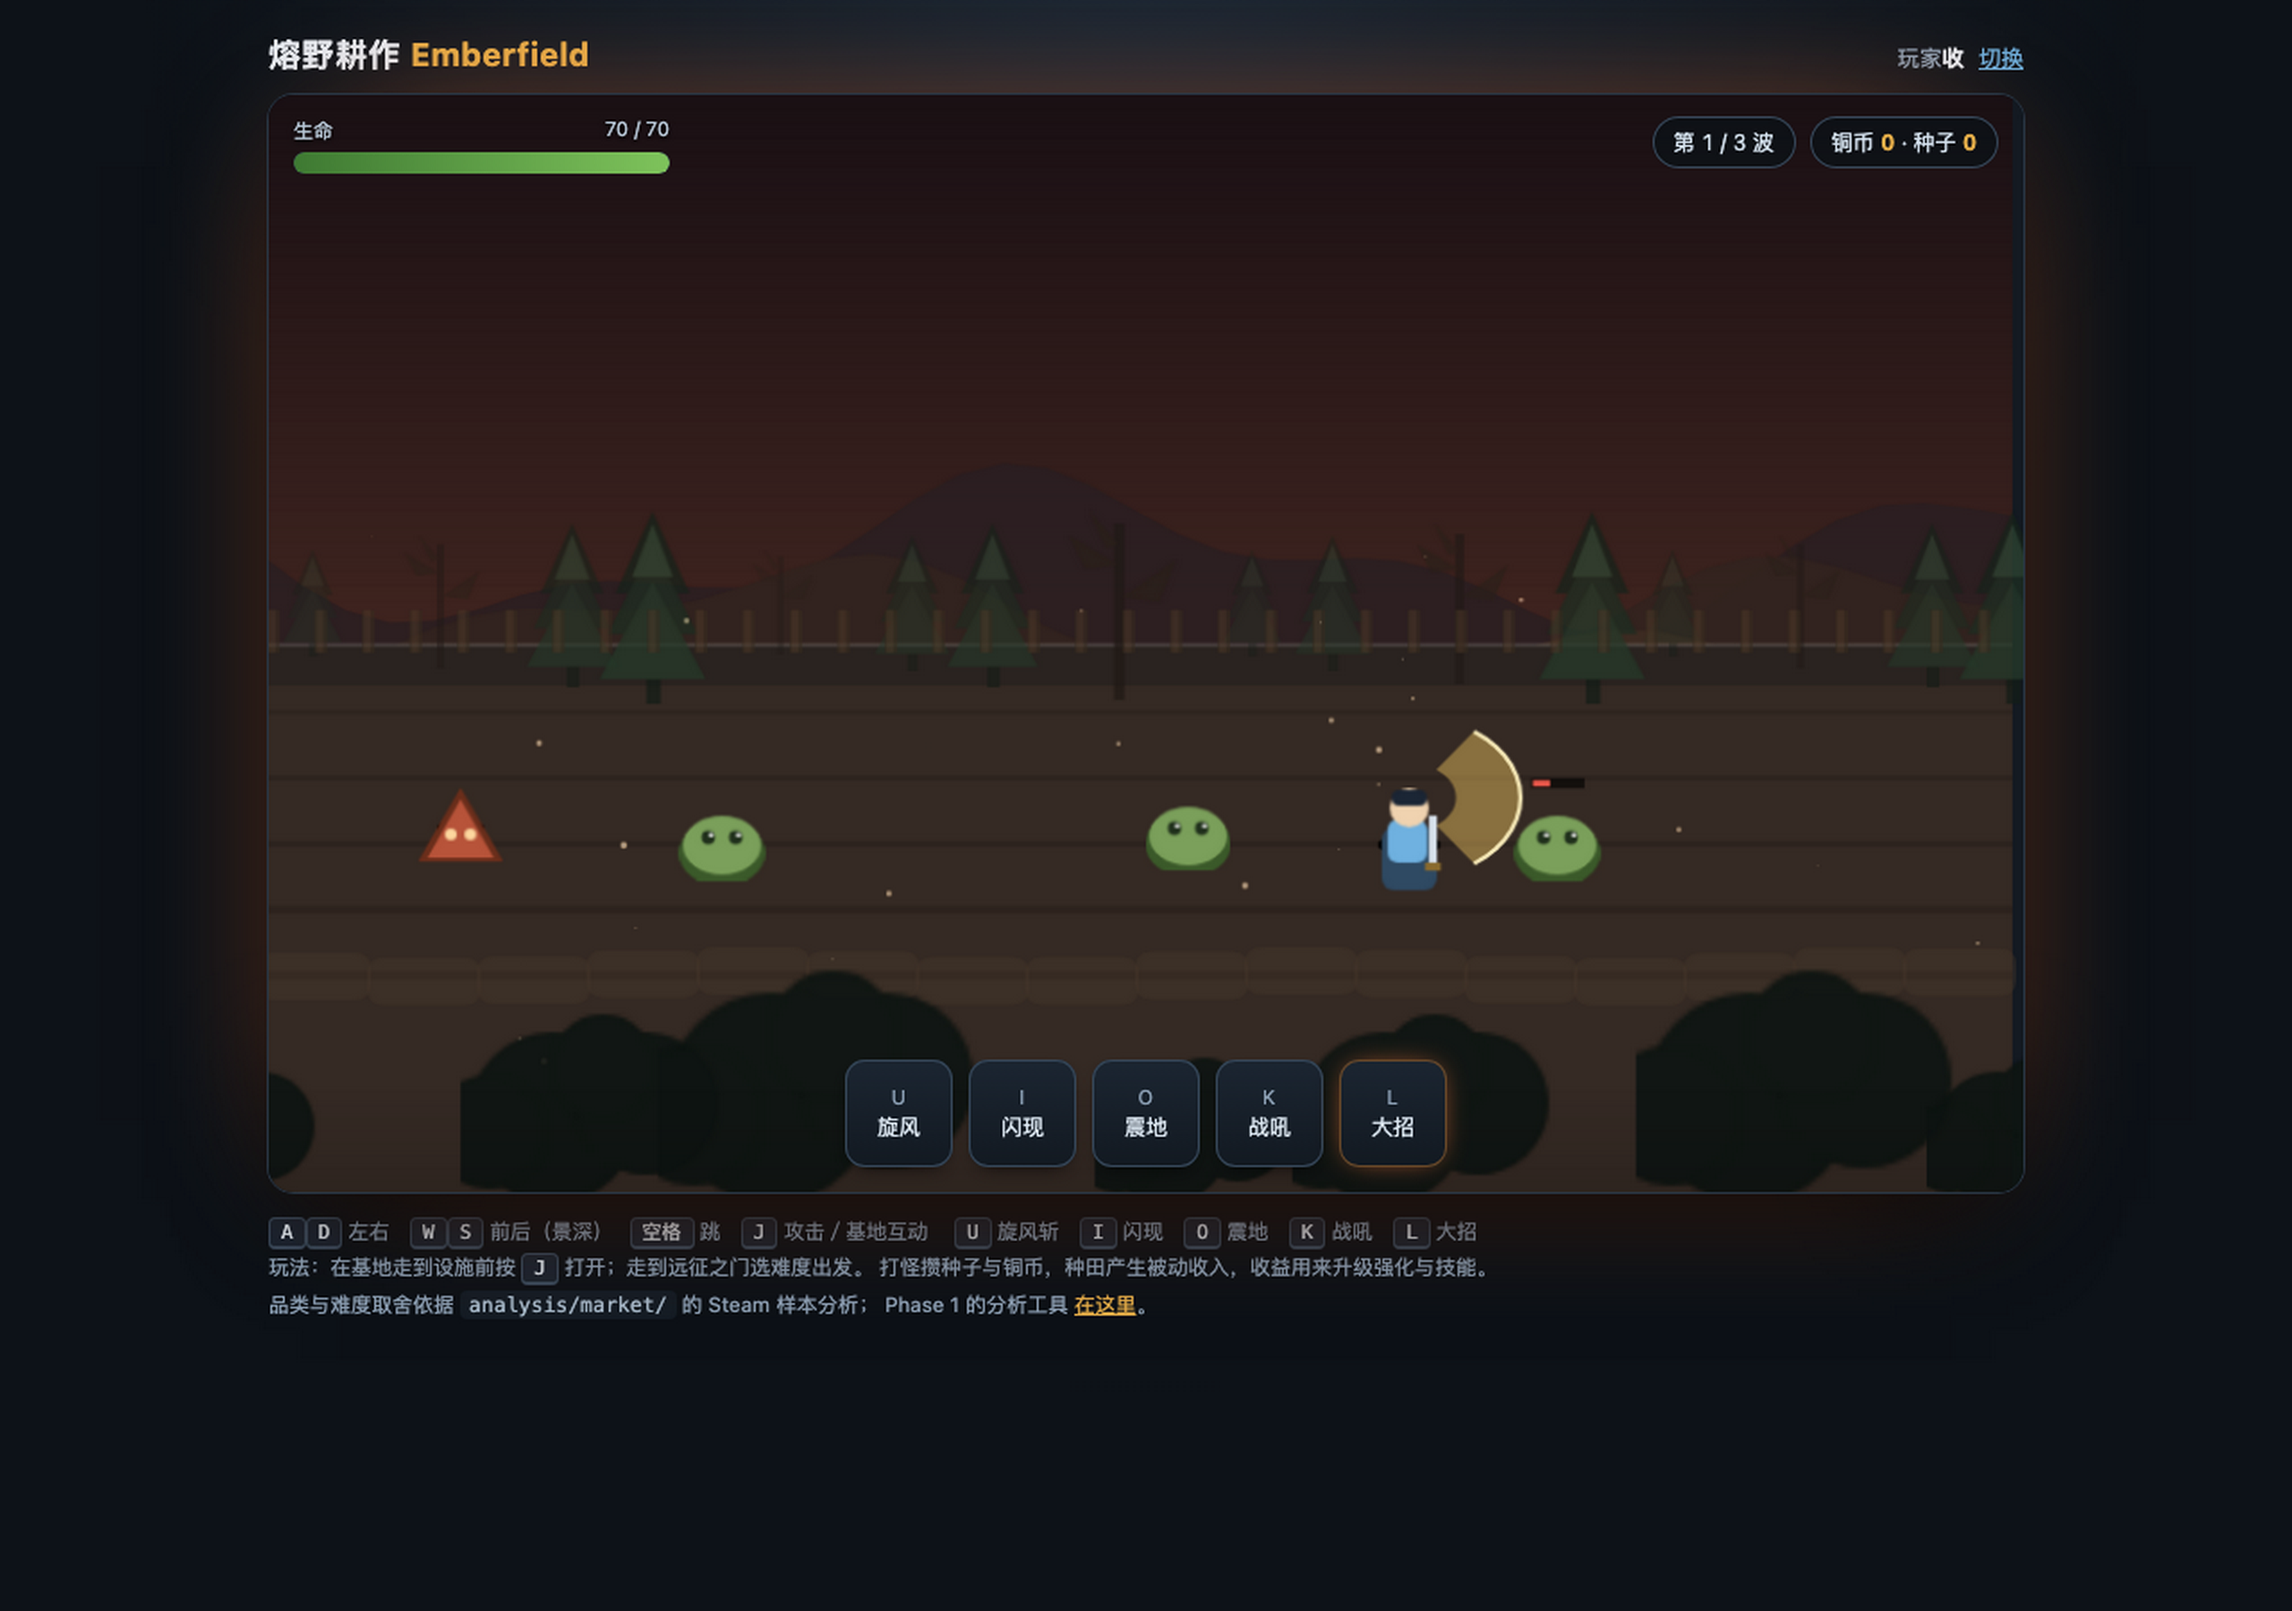
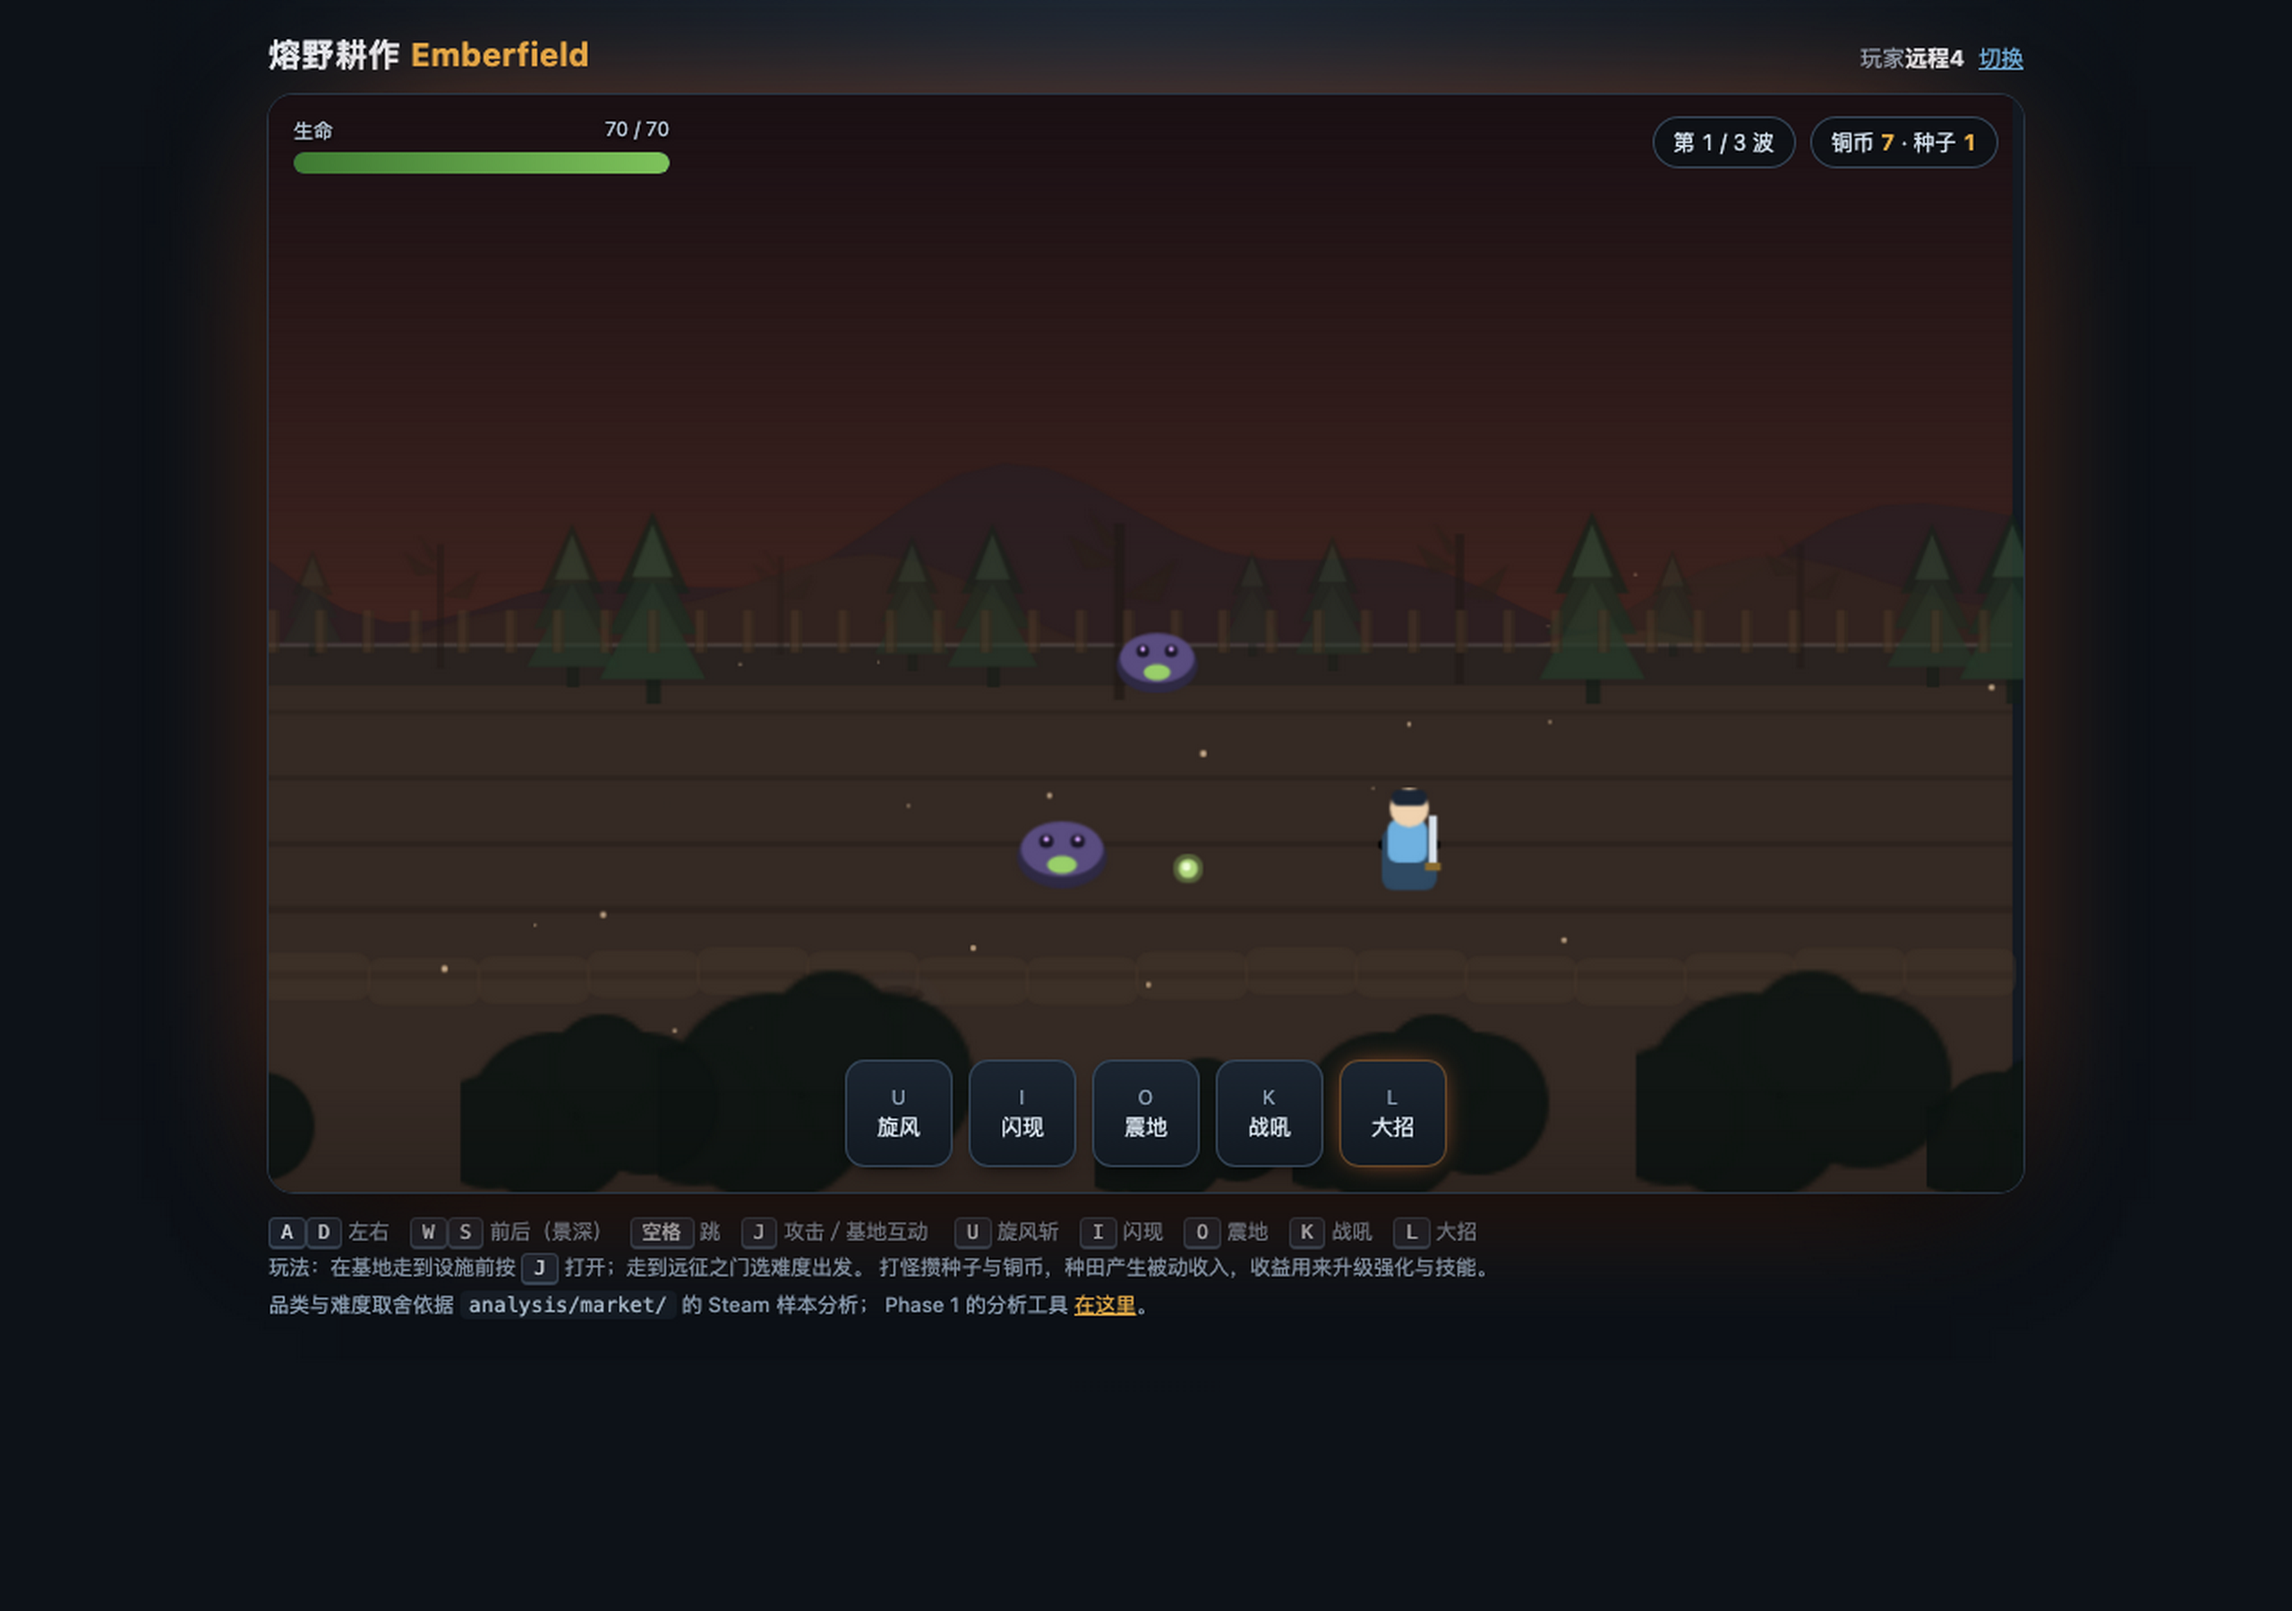
game: a ranged enemy that makes the depth axis a dodge, plus hit feedback
Combat had one solution: walk backwards. Every enemy had to touch you, so kiting beat
everything. The spitter fixes that without adding a fourth melee variant.

Ranged enemy. It holds about 250px, telegraphs, then spits a projectile that travels a
straight line in both axes. Hit resolution requires x overlap AND |z difference| under 26,
so stepping in depth dodges it. That is the depth axis earning its place: it was previously
movement decoration. Waves gain spitters from wave 2, up to a third of the wave by wave 4.

Verified by test rather than assumed: same-depth shots hit, a 62px depth offset misses,
projectiles expire, the spitter fires within six seconds, its shot leads toward the player,
and it backs off when crowded.

Balance re-measured with a bot that now dodges: zero upgrades gives 100/95/40/5 percent,
full upgrades 100/100/100/85. Every tier got harder and all remain completable.

Hit feedback: floating damage numbers derived by diffing enemy HP each frame (no change
needed in the rules layer), screen shake scaled per skill, and a fade on death.

Two rendering faults found only by looking at captures:
  - Enemy sprites are pooled by index and the texture was fixed at creation, so a slot that
    held a crawler and then received a spitter kept drawing a crawler. Now the texture is
    updated when the kind at that index changes.
  - The slash still read beige. It is now a near-white core with a gold leading edge, which
[…]

diff --git a/game/app.js b/game/app.js
@@ -72,6 +72,22 @@
     g.fillStyle(0xffd9a0, 1); g.fillCircle(17, 26, 3); g.fillCircle(27, 26, 3);
     g.generateTexture('runner', 44, 42);
 
+    // 吐酸虫：矮胖，带一张吐酸的嘴
+    g.clear();
+    g.fillStyle(0x2f2a44, 1); g.fillEllipse(24, 32, 46, 32);
+    g.fillStyle(0x5a4d80, 1); g.fillEllipse(24, 28, 42, 28);
+    g.fillStyle(0x9ad06a, 1); g.fillEllipse(24, 36, 15, 9);      // 酸囊
+    g.fillStyle(0x1a1626, 1); g.fillCircle(16, 24, 3.6); g.fillCircle(32, 24, 3.6);
+    g.fillStyle(0xd6a6ff, 1); g.fillCircle(16, 23, 1.4); g.fillCircle(32, 23, 1.4);
+    g.generateTexture('spitter', 48, 48);
+
+    // 酸弹
+    g.clear();
+    g.fillStyle(0x9ad06a, 0.35); g.fillCircle(9, 9, 9);
+    g.fillStyle(0xbfe88a, 0.9); g.fillCircle(9, 9, 5.5);
+    g.fillStyle(0xf0ffd8, 1); g.fillCircle(8, 8, 2.4);
+    g.generateTexture('acid', 18, 18);
+
     // 影子
     g.clear();
     g.fillStyle(0x000000, 1); g.fillEllipse(24, 8, 48, 16);
@@ -491,6 +507,11 @@
       this.hero = this.add.image(0, 0, 'hero').setDepth(100);
       this.heroSwing = this.add.graphics().setDepth(101);
 
+      this.projPool = [];
+      this.dmgPool = [];
+      this.lastEnemyHp = {};
+      this.lastShake = 0;
+
       this.events.on('wake', () => { this.state = CURRENT_STATE; });
       global.EmberfieldUI.showHud(true, this.state);
       global.EmberfieldApp.__scene = this;
@@ -501,9 +522,16 @@
       if (!this.enemyPool[i]) {
         const sh = this.add.image(0, 0, 'shadow').setScale(0.62);
         const img = this.add.image(0, 0, kind);
-        this.enemyPool[i] = { img: img, shadow: sh };
+        this.enemyPool[i] = { img: img, shadow: sh, kind: kind };
       }
-      return this.enemyPool[i];
+      const sp = this.enemyPool[i];
+      // 池是按索引复用的。如果这个槽位上一帧是爬虫、这一帧是吐酸虫，
+      // 纹理不会自动换 —— 结果吐酸虫会画成爬虫的样子（实际踩到过）。
+      if (sp.kind !== kind) {
+        sp.img.setTexture(kind);
+        sp.kind = kind;
+      }
+      return sp;
     }
 
     update(time, delta) {
@@ -558,7 +586,7 @@
         const poly = outer.concat(inner);
 
         // 主体：淡金色半透明
-        this.heroSwing.fillStyle(0xffd166, 0.42 * (1 - t * 0.5));
+        this.heroSwing.fillStyle(0xfffdf2, 0.30 * (1 - t * 0.5));
         this.heroSwing.beginPath();
         this.heroSwing.moveTo(poly[0][0], poly[0][1]);
         for (let i = 1; i < poly.length; i++) this.heroSwing.lineTo(poly[i][0], poly[i][1]);
@@ -566,7 +594,7 @@
         this.heroSwing.fillPath();
 
         // 外缘亮线：让刀光有"边"，不是一团糊
-        this.heroSwing.lineStyle(2.5 * ps.sc, 0xfff2c0, 0.95 * (1 - t * 0.55));
+        this.heroSwing.lineStyle(2.5 * ps.sc, 0xffe9a8, 0.95 * (1 - t * 0.55));
         this.heroSwing.beginPath();
         this.heroSwing.moveTo(outer[0][0], outer[0][1]);
         for (let i = 1; i < outer.length; i++) this.heroSwing.lineTo(outer[i][0], outer[i][1]);
@@ -600,6 +628,16 @@
         this.enemyPool[i].img.setVisible(false);
         this.enemyPool[i].shadow.setVisible(false);
       }
+      // 死亡的敌人短暂保留：淡出并缩小，比"瞬间消失"有交代
+      run.enemies.forEach((e) => {
+        if (e.state !== 'dead') return;
+        const idx = run.enemies.indexOf(e);
+        const sp = this.enemyPool[idx];
+        if (!sp) return;
+        sp.img.setAlpha(Math.min(1, e.hitFlash / 0.12));
+        sp.img.setScale(sp.img.scaleX * 0.985);
+        sp.shadow.setAlpha(0.18);
+      });
 
       // 技能特效
       run.effects.forEach((ef) => {
@@ -613,6 +651,57 @@
           this.effectGfx.fillRect(0, 0, W, GROUND_Y);
         }
       });
+
+      // ---- 弹道 ----
+      run.projectiles.forEach((pr, i) => {
+        let sp = this.projPool[i];
+        if (!sp) { sp = this.add.image(0, 0, 'acid'); this.projPool[i] = sp; }
+        const pss = toScreen(pr.x, pr.z, pr.h);
+        sp.setVisible(true).setPosition(pss.sx, pss.sy)
+          .setScale(pss.sc * (0.9 + Math.sin(pr.spin) * 0.12))
+          .setDepth(1000 - pr.z + 5);
+      });
+      for (let i = run.projectiles.length; i < this.projPool.length; i++) {
+        this.projPool[i].setVisible(false);
+      }
+
+      // ---- 伤害数字：靠每帧比对血量差值得出，不需要逻辑层配合 ----
+      run.enemies.forEach((e) => {
+        const prev = this.lastEnemyHp[e.id];
+        if (prev !== undefined && e.hp < prev) {
+          const dmg = Math.round(prev - e.hp);
+          const es = toScreen(e.x, e.z, e.h);
+          let tb = this.dmgPool.pop();
+          if (!tb) tb = this.add.text(0, 0, '', {
+            fontSize: '15px', fontFamily: 'sans-serif', color: '#fff2c0',
+          }).setOrigin(0.5, 1).setDepth(3000);
+          tb.setText(String(dmg)).setVisible(true).setPosition(es.sx, es.sy - 30 * es.sc)
+            .setAlpha(1).setScale(1);
+          tb.setStroke('#3a1d10', 3);
+          this.tweens.add({
+            targets: tb, y: tb.y - 34, alpha: 0, scale: 1.25,
+            duration: 620, ease: 'Cubic.out',
+            onComplete: () => { tb.setVisible(false); this.dmgPool.push(tb); },
+          });
+        }
+        this.lastEnemyHp[e.id] = e.hp;
+      });
+      // 清理已消失敌人的记录，避免 Map 无限增长
+      const aliveIds = {};
+      run.enemies.forEach((e) => { aliveIds[e.id] = 1; });
+      Object.keys(this.lastEnemyHp).forEach((id) => {
+        if (!aliveIds[id]) delete this.lastEnemyHp[id];
+      });
+
+      // ---- 震屏：震地与大招各一次，强度不同 ----
+      const cast = p.casting;
+      if (cast && cast.key !== this.lastShake && cast.timer > 0) {
+        if (cast.key === 'slam') this.cameras.main.shake(160, 0.010);
+        if (cast.key === 'nova') this.cameras.main.shake(280, 0.016);
+        if (cast.key === 'whirl') this.cameras.main.shake(90, 0.004);
+        this.lastShake = cast.key;
+      }
+      if (!cast) this.lastShake = null;
 
       global.EmberfieldUI.updateHud(this.state);
 

diff --git a/game/logic.js b/game/logic.js
@@ -152,6 +152,7 @@
       enemies: [],
       loot: { coins: 0, seeds: 0 },
       effects: [],
+      projectiles: [],
       elapsed: 0,
       player: {
         x: C.FIELD_W / 2,
@@ -212,6 +213,7 @@
       radius: def.radius,
       state: 'chase',
       timer: 0,
+      fireCd: def.behavior === 'ranged' ? randRange(state, 0.9, 1.9) : 0,
       attackCd: 0,
       facing: fromLeft ? 1 : -1,
       hitFlash: 0,
@@ -242,6 +244,7 @@
     stepPlayer(state, run, input, dt);
     stepSpawning(state, run, dt);
     stepEnemies(state, run, dt);
+    stepProjectiles(state, run, dt);
     stepWave(state, run, dt);
 
     if (run.player.hp <= 0 && run.status === 'active') endRun(state, false);
@@ -438,6 +441,8 @@
         e.stun = Math.max(0, e.stun - dt);
       } else if (def.behavior === 'lunge') {
         stepLunge(state, run, e, def, dt);
+      } else if (def.behavior === 'ranged') {
+        stepRanged(state, run, e, def, dt);
       } else {
         stepChase(state, run, e, dt);
       }
@@ -501,6 +506,82 @@
       if (e.timer <= 0) { e.state = 'lunge'; e.timer = def.lungeTime; }
     } else if (e.state === 'lunge') {
       if (e.timer <= 0) { e.state = 'chase'; e.timer = 0; }
+    }
+  }
+
+  /**
+   * 吐酸虫：维持距离 → 抬手 → 吐弹。
+   * 弹道沿 (x, z) 直线飞行，只覆盖一条深度线，所以玩家换深度就能躲开。
+   */
+  function stepRanged(state, run, e, def, dt) {
+    const p = run.player;
+    const dx = p.x - e.x, dz = p.z - e.z;
+    const dist = Math.hypot(dx, dz) || 1;
+    e.facing = dx >= 0 ? 1 : -1;
+
+    if (e.state === 'windup') {
+      e.timer -= dt;
+      if (e.timer <= 0) {
+        spawnProjectile(state, run, e, def);
+        e.state = 'chase';
+        e.fireCd = def.fireCd;
+      }
+      return;
+    }
+
+    // 太近后退、太远靠近，尽量停在 keepDistance 附近
+    if (dist < def.keepDistance * 0.72) {
+      e.x -= (dx / dist) * e.speed * dt;
+      e.z -= (dz / dist) * e.speed * 0.75 * dt;
+    } else if (dist > def.keepDistance * 1.2) {
+      e.x += (dx / dist) * e.speed * dt;
+      e.z += (dz / dist) * e.speed * 0.75 * dt;
+    }
+
+    e.fireCd -= dt;
+    if (e.fireCd <= 0) {
+      e.state = 'windup';
+      e.timer = def.windup;
+    }
+  }
+
+  function spawnProjectile(state, run, e, def) {
+    const p = run.player;
+    const dx = p.x - e.x, dz = p.z - e.z;
+    const d = Math.hypot(dx, dz) || 1;
+    run.projectiles.push({
+      x: e.x, z: e.z, h: 20,
+      vx: (dx / d) * def.projSpeed,
+      vz: (dz / d) * def.projSpeed,
+      damage: Math.round(def.projDamage * run.diff.dmgMul),
+      radius: def.projRadius,
+      depth: def.projDepth,
+      life: def.projLife,
+      spin: 0,
+    });
+  }
+
+  function stepProjectiles(state, run, dt) {
+    const p = run.player;
+    for (let i = run.projectiles.length - 1; i >= 0; i--) {
+      const pr = run.projectiles[i];
+      pr.x += pr.vx * dt;
+      pr.z += pr.vz * dt;
+      pr.life -= dt;
+      pr.spin += dt * 12;
+
+      let gone = pr.life <= 0 || pr.x < -40 || pr.x > C.FIELD_W + 40
+                 || pr.z < -30 || pr.z > C.FIELD_D + 30;
+
+      // 命中判定同样要求两个轴都贴近 —— 深度差够大就能擦身而过
+      if (!gone && p.invuln === 0
+          && Math.abs(pr.x - p.x) < pr.radius
+          && Math.abs(pr.z - p.z) < pr.depth) {
+        p.hp -= pr.damage;
+        p.invuln = C.INVULN_AFTER_HIT;
+        gone = true;
+      }
+      if (gone) run.projectiles.splice(i, 1);
     }
   }
 
@@ -586,6 +667,7 @@
     createState, startRun, step, endRun, returnToFarm,
     plant, buyUpgrade, upgradeCost,
     buySkill, skillCost, skillStats, tryCastSkill, currentDamage,
+    stepProjectiles, stepRanged, spawnProjectile,
     playerStats, maturePlots, passiveIncome,
     serialize, deserialize,
     nextRandom, buildWave, makeEnemy,
